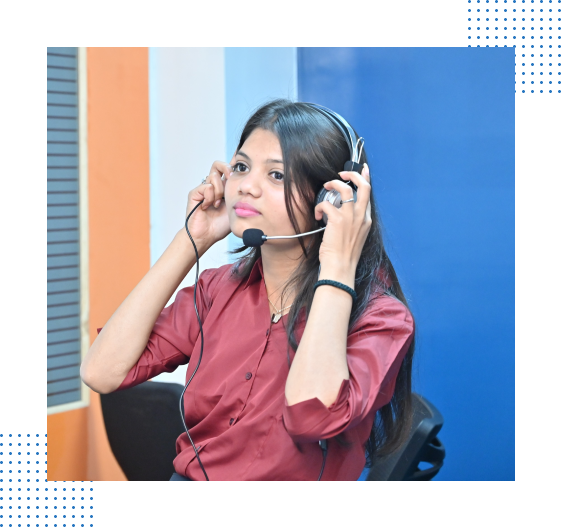
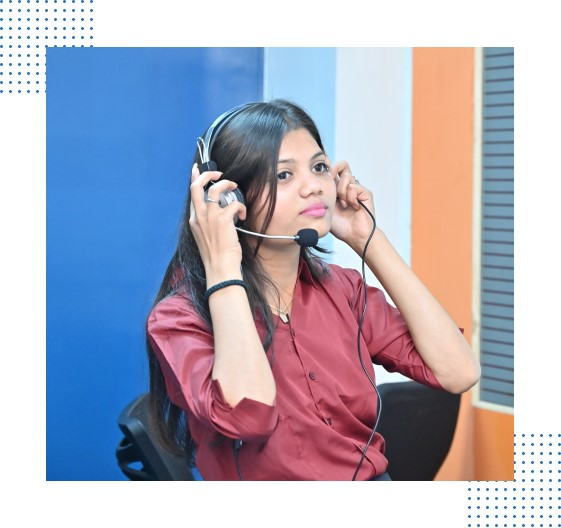
completed

diff --git a/src/Components/HomeComponents/HeroSlider.jsx b/src/Components/HomeComponents/HeroSlider.jsx
@@ -1,15 +1,15 @@
 const HeroSlider = () => {
   return (
     <>
-      <div className="container">
+      <div className="container px-5">
         <div className="row">
           <div className="col-lg-6 align-content-center">
-            <h1>Discover Our Expertise in Call Center Services</h1>
+            <h2>Discover Our Expertise in Call Center Services</h2>
             <h4 className="py-2">We specialize in providing unparalleled call center management services across Asia and America.</h4>
             <p className="py-3">Midline Media Solutions remains steadfast in its commitment to excellence, continuously evolving to stay ahead of the curve and provide unparalleled service that empowers our clients to achieve their business goals.</p>
           </div>
-          <div className="col-lg-6 py-5 align-content-center justify-content-center text-center">
-            <img src="/image2.jpg" className="img-fluid" alt="" />
+          <div className="col-lg-6 py-5 align-content-center order-1 justify-content-center text-center">
+            <img src="/imag3.png" className="img-fluid " alt="" />
           </div>
         </div>
       </div>

diff --git a/src/Components/HomeComponents/FeatureSection.jsx b/src/Components/HomeComponents/FeatureSection.jsx
@@ -36,8 +36,8 @@ const FeatureSection = () => {
       <div className='row    py-5'>
         <div className='col-lg-6 col-md-8   justify-content-center d-flex'>
           <img
-            src='./image1-min.JPG'
-            className='img-fluid rounded-2 shadow'
+            src='./image2.jpg'
+            className='img-fluid rounded-2 '
             style={{ width: "550px", objectFit:"cover" }}
             alt=''
           />
